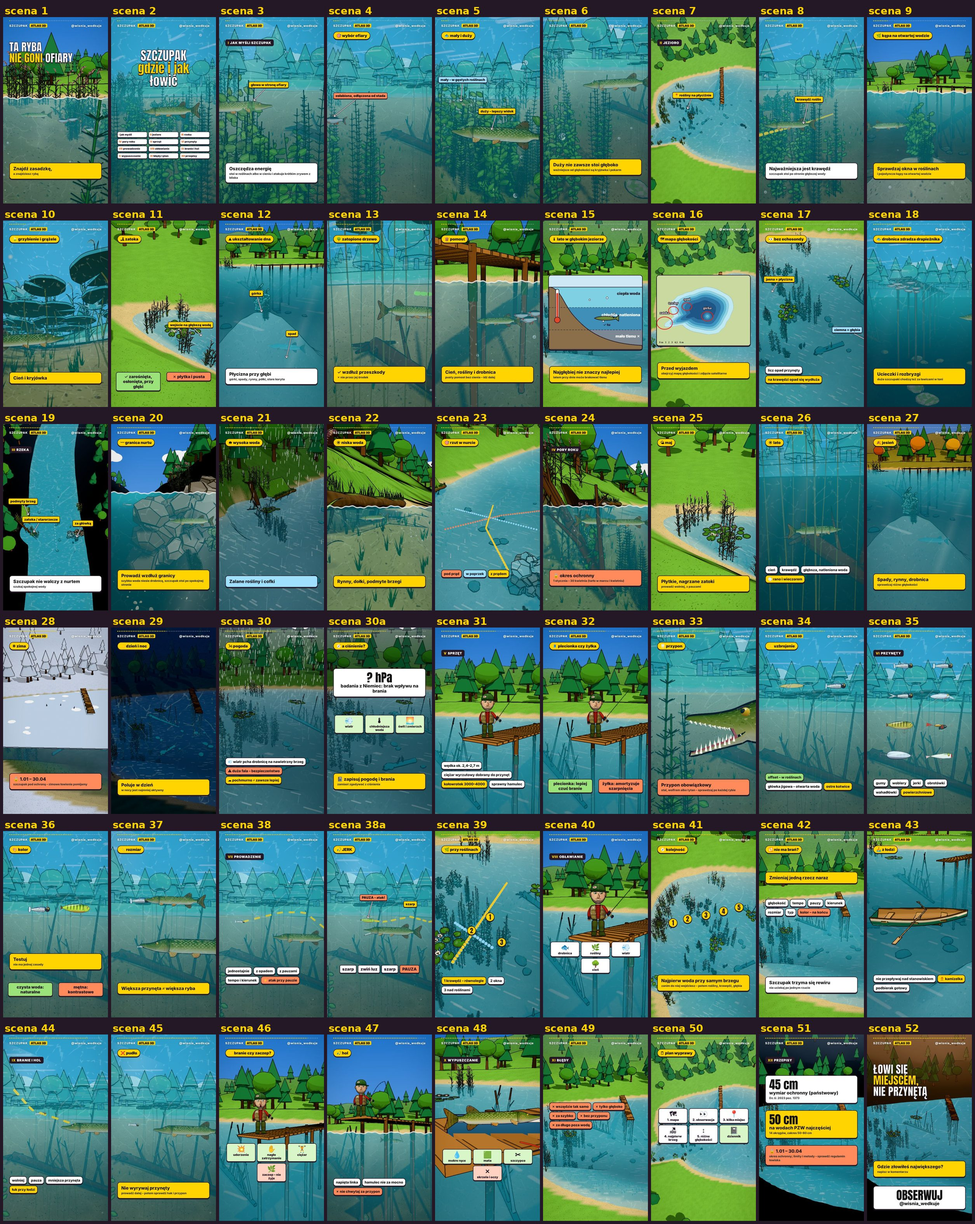
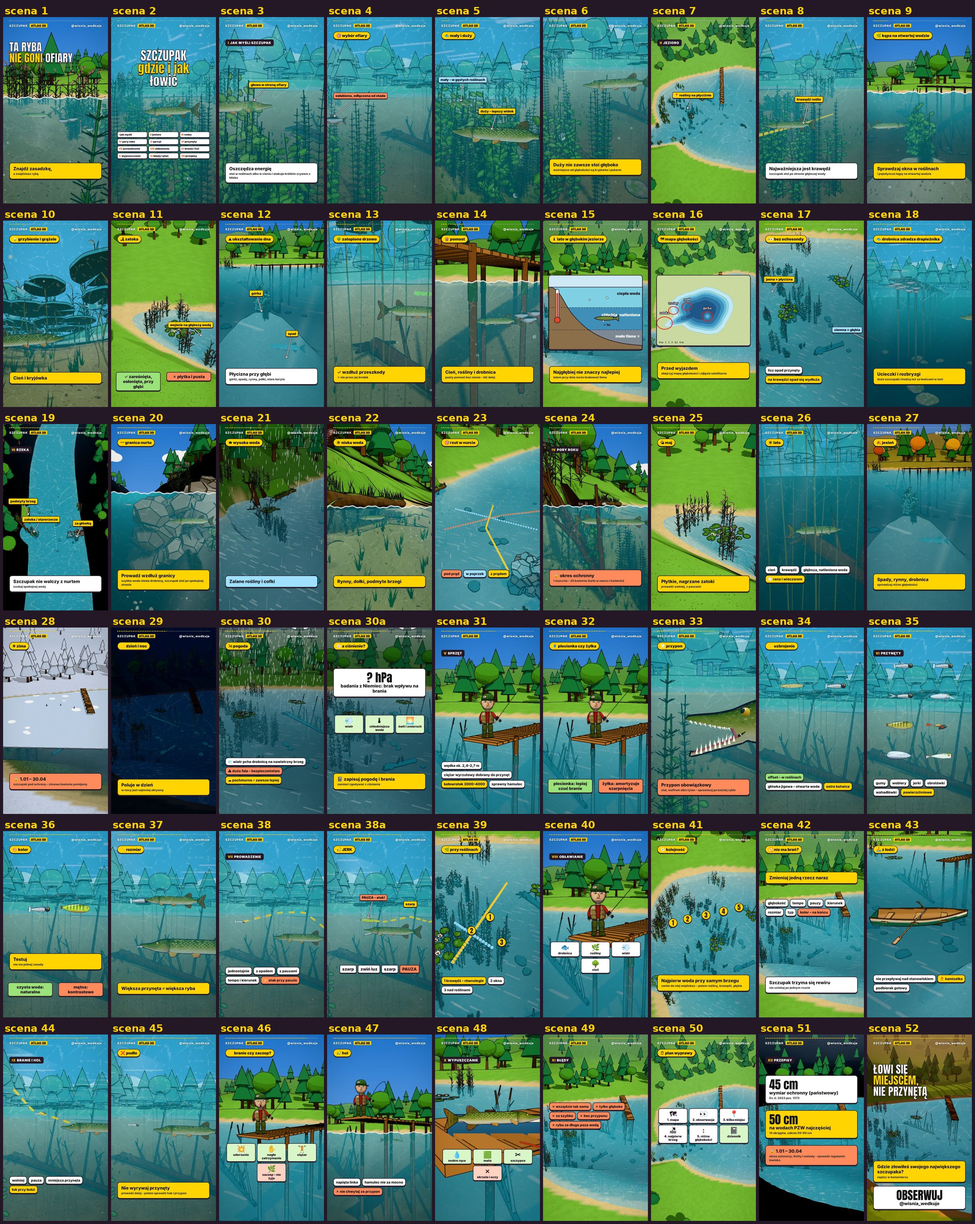
Szczupak: poprawki języka lektora, pełne pytanie na końcu; noc z całościowym przyciemnieniem kadru
Claude-Session: https://claude.ai/code/session_01YFDAx3363ZnHR5mXZwci3a

Changed region(s): [[0.8701, 0.8395, 1.0, 1.0], [0.0932, 0.5596, 0.2175, 0.684], [0.5904, 0.9016, 0.6215, 0.9327]]

diff --git a/atlas3d/silnik.js b/atlas3d/silnik.js
@@ -41,13 +41,13 @@ const normMat = new THREE.MeshNormalMaterial({ side: THREE.DoubleSide });   // o
 const fsCam = new THREE.OrthographicCamera(-1, 1, 1, -1, 0, 1);
 const kompozycja = new THREE.ShaderMaterial({
   uniforms: { tC: { value: rtC.texture }, tN: { value: rtN.texture }, tD: { value: rtN.depthTexture }, tM: { value: rtM.texture }, tMD: { value: rtM.depthTexture }, tB: { value: rtB.texture },
-    texel: { value: new THREE.Vector2(1 / RW, 1 / RH) }, sk: { value: SK }, cn: { value: .1 }, cf: { value: 600 }, ink: { value: C('#060506') }, fogC: { value: C('#fff') }, fogR: { value: new THREE.Vector2(60, 300) }, vig: { value: .2 },
+    przyc: { value: new THREE.Vector4(1, 1, 1, 1) }, texel: { value: new THREE.Vector2(1 / RW, 1 / RH) }, sk: { value: SK }, cn: { value: .1 }, cf: { value: 600 }, ink: { value: C('#060506') }, fogC: { value: C('#fff') }, fogR: { value: new THREE.Vector2(60, 300) }, vig: { value: .2 },
     invProj: { value: new THREE.Matrix4() }, camWorld: { value: new THREE.Matrix4() }, camPos: { value: new THREE.Vector3() },
     wodaC: { value: C('#3fa7b5') }, wodaG: { value: C('#0b3d5a') }, wodaK: { value: .085 }, czas: { value: 0 }, lod: { value: 0 } },
   vertexShader: 'varying vec2 vUv; void main(){ vUv=uv; gl_Position=vec4(position.xy,0.,1.); }',
   fragmentShader: `
     #include <packing>
-    uniform sampler2D tC, tN, tD, tM, tMD, tB; uniform vec2 texel; uniform float cn, cf, vig, wodaK, czas, lod, sk; uniform vec3 ink, fogC, camPos, wodaC, wodaG; uniform vec2 fogR;
+    uniform sampler2D tC, tN, tD, tM, tMD, tB; uniform vec2 texel; uniform float cn, cf, vig, wodaK, czas, lod, sk; uniform vec3 ink, fogC, camPos, wodaC, wodaG; uniform vec2 fogR; uniform vec4 przyc;
     uniform mat4 invProj, camWorld; varying vec2 vUv;
     float Zt(sampler2D d, vec2 uv){ return -perspectiveDepthToViewZ(texture2D(d, uv).x, cn, cf); }
     vec3 N(vec2 uv){ return texture2D(tN, uv).xyz * 2. - 1.; }
@@ -108,6 +108,7 @@ const kompozycja = new THREE.ShaderMaterial({
       float m = (1. - smoothstep(.0, .0045, abs(dy))) * bliskoTafli;
       col = mix(col, vec3(.95, 1., 1.), m * .9);
       vec2 p = vUv * 2. - 1.; col *= 1. - vig * smoothstep(.55, 1.45, length(p * vec2(1., .8)));
+      col = col * przyc.w * mix(vec3(1.), przyc.rgb, 1. - przyc.w);   // całościowe przyciemnienie (noc): wszystko ciemniej i chłodniej
       gl_FragColor = vec4(col, 1.);
       #include <tonemapping_fragment>
       #include <colorspace_fragment>
@@ -176,6 +177,7 @@ function nowaScena(p) {
   sun.castShadow = true; sun.shadow.mapSize.set(2048, 2048); Object.assign(sun.shadow.camera, { left: -45, right: 45, top: 45, bottom: -45, near: 1, far: 200 }); sun.shadow.bias = -0.0005; sun.shadow.normalBias = .04;
   scene.add(sun);
   kompozycja.uniforms.fogC.value = C(p.mgla); kompozycja.uniforms.fogR.value.set(p.mglaOd || 70, p.mglaDo || 320);
+  { const pc = p.przyciemnij; kompozycja.uniforms.przyc.value.set(...(pc ? [...C(pc.kolor).toArray(), pc.jasnosc] : [1, 1, 1, 1])); }
   kompozycja.uniforms.wodaC.value = C(p.wodaC || '#3fa7b5'); kompozycja.uniforms.wodaG.value = C(p.wodaG || '#0b3d5a');
   kompozycja.uniforms.wodaK.value = p.wodaK ?? .052; kompozycja.uniforms.lod.value = p.lod ? 1 : 0;
 }
@@ -358,7 +360,7 @@ const ZIMA = { niebo: ['#7d93ad', '#a9bacb', '#dfe7ee'], mgla: '#dfe7ee', hemiG:
 const JESIEN = { tafla: '#5aa6b4', trawa: '#93964e', wzg: '#7f7a40', niebo: ['#5d86c2', '#93b2d6', '#e3d6b8'], mgla: '#e0d2b4', hemiG: '#f3e2c4', hemiD: '#8a6a48', hemiI: 1.1, slonceI: 2.4, slonceK: '#ffd9a0', slonceP: [30, 30, 25], liscie: ['#d98a2b', '#c4572a', '#e3b23c'] },
   ZLOTA = { niebo: ['#6a4f8c', '#c4848e', '#f7ae78', '#ffd08a'], mgla: '#efb489', hemiG: '#d8b0b8', hemiD: '#6a5a78', hemiI: .9, slonceI: 3.4, slonceK: '#ffab5e', slonceP: [-30, 10, -60], mglaOd: 40, mglaDo: 260, wodaC: '#5a8f9a', wodaG: '#1a3550' };
 // noc: granatowe niebo, słaby chłodny „księżyc” zamiast słońca (księżyc rysuje ksiezyc())
-const NOC = { tafla: '#24466e', trawa: '#2f4a3a', wzg: '#223a30', niebo: ['#070b1e', '#16224a', '#2c3c6e'], mgla: '#1c2a52', mglaOd: 30, mglaDo: 200, hemiG: '#5a6ea8', hemiD: '#151a2e', hemiI: .55, slonceI: .55, slonceK: '#b9c8ff', slonceP: [-25, 40, -40], wodaC: '#1d3d5c', wodaG: '#0a1a2c' };
+const NOC = { przyciemnij: { jasnosc: .58, kolor: '#5f78c8' }, tafla: '#24466e', trawa: '#2f4a3a', wzg: '#223a30', niebo: ['#070b1e', '#16224a', '#2c3c6e'], mgla: '#1c2a52', mglaOd: 30, mglaDo: 200, hemiG: '#5a6ea8', hemiD: '#151a2e', hemiI: .55, slonceI: .55, slonceK: '#b9c8ff', slonceP: [-25, 40, -40], wodaC: '#1d3d5c', wodaG: '#0a1a2c' };
 // pochmurno i deszcz: szare niebo, rozproszone światło
 const DESZCZ = { tafla: '#6f9aa6', trawa: '#5f8a48', niebo: ['#5d6875', '#7f8a96', '#a7b0b9'], mgla: '#9aa4ae', mglaOd: 35, mglaDo: 220, hemiG: '#c9d2dc', hemiD: '#6f6a60', hemiI: 1.25, slonceI: .7, slonceK: '#e4e9f0', wodaC: '#4f8595', wodaG: '#1f4152' };
 function ksiezyc(x, y, z, r = 4) { const m = slonce(x, y, z, r, '#f3f0d8'), h = new THREE.Mesh(new THREE.CircleGeometry(r * 1.9, 40), new THREE.MeshBasicMaterial({ color: '#8ea0d8', transparent: true, opacity: .18, fog: false, depthWrite: false })); h.layers.set(NOINK); h.position.z = -.05; m.add(h);

diff --git a/atlas3d/szczupak_film.html b/atlas3d/szczupak_film.html
@@ -248,7 +248,7 @@ const SC = {
     return RZ('X', 'WYPUSZCZANIE') + IK([['💧', 'mokre ręce', 'v'], ['🟩', 'mata', 'v'], ['✂', 'szczypce', 'v'], ['✗', 'skrzela i oczy', 'x']], 1180, .4); },
   // ===== XI. BŁĘDY I PLAN =====
   51: () => { JEZIORO(); kam([-12, 18, 40], [-13, 0, 0], { fov: 50, najazd: [0, .02], orbita: 0 });
-    return RZ('XI', 'BŁĘDY') + LI([['✗ wszędzie tak samo', 'c'], ['✗ tylko głęboko', 'c'], ['✗ za szybko', 'c'], ['✗ bez przyponu', 'c'], ['✗ za długo poza wodą', 'c']], 700, .4); },
+    return RZ('XI', 'BŁĘDY') + LI([['✗ wszędzie tak samo', 'c'], ['✗ tylko głęboko', 'c'], ['✗ za szybko', 'c'], ['✗ bez przyponu', 'c'], ['✗ ryba za długo poza wodą', 'c']], 700, .4); },
   52: () => { JEZIORO(); kam([-12, 78, 46], [-13, 0, 0], { fov: 50, najazd: [0, .02], orbita: 0 });
     return CH('🗒 plan wyprawy') + IK([['🗺', '1. mapa'], ['👀', '2. obserwacja'], ['📍', '3. kilka miejsc'], ['🏖', '4. najpierw brzeg'], ['↕', '5. różne głębokości'], ['📓', 'dziennik', 'v']], 760, .4); },
   // ===== XII. PRZEPISY I KONIEC =====
@@ -257,7 +257,7 @@ const SC = {
       + `<div class="karta z" style="top:780px" data-od=".8"><span class="big">50 cm</span>na wodach PZW najczęściej<small>14 okręgów, zakres 50–60 cm</small></div>`
       + KR('🔒 1.01 – 30.04', 'okres ochronny; limity i metody – sprawdź regulamin łowiska', 1140, 'c', 1.3); },
   54: () => { JEZIORO(ZLOTA); kam([-12, 18, 40], [-13, 0, 0], { fov: 50, najazd: [0, .03], orbita: .03 });
-    return `<h1 data-od=".1" style="top:300px">Łowi się<br><span>miejscem,</span><br>nie przynętą</h1>` + KR('Gdzie złowiłeś największego?', 'napisz w komentarzu', 1300, 'z', .6) + `<div class="karta" style="top:1560px;text-align:center" data-od="1"><span class="big">OBSERWUJ</span>@wisnia_wedkuje</div>`; },
+    return `<h1 data-od=".1" style="top:300px">Łowi się<br><span>miejscem,</span><br>nie przynętą</h1>` + KR('Gdzie złowiłeś swojego największego szczupaka?', 'napisz w komentarzu', 1300, 'z', .6) + `<div class="karta" style="top:1560px;text-align:center" data-od="1"><span class="big">OBSERWUJ</span>@wisnia_wedkuje</div>`; },
 };
 window.NR = NR;
 uruchom({ sceny: SC, liczba: 54, tytul: 'SZCZUPAK <b>ATLAS 3D</b>', dlugosc: () => 6 });

diff --git a/atlas3d/scenariusze/szczupak_gdzie.md b/atlas3d/scenariusze/szczupak_gdzie.md
@@ -62,7 +62,7 @@ Czasy rozdziałów są orientacyjne. W kolumnie „Obraz” podane są napisy i 
 | 3 | Szczupak nieruchomo w cieniu rośliny, głową w stronę ławicy. Strzałka „głowa w stronę ofiary”, krótki zryw | Szczupak oszczędza energię. Stoi głową w stronę ofiary, w roślinach albo w cieniu, i atakuje krótkim zrywem z bliska. | wiki_en (bursts of energy instead of actively chasing; ambush) |
 | 4 | Z ławicy odłącza się jedna płotka, osłabiona, płynie zygzakiem. Szczupak wybiera właśnie ją | Często wybiera rybę osłabioną albo odłączoną od stada. | por. |
 | 5 | Mały szczupak głęboko w gęstwinie, duży przechodzi obok. Etykiety „mały – w gęstych roślinach”, „duży – lepszy widok” | Małe szczupaki chowają się w gęstych roślinach, bo duże potrafią je zjeść. Duże stoją tam, skąd mają lepszy widok. | wiki_en (smaller pike need more vegetation to avoid being eaten; large line of sight), fishbase (cannibalism is common) |
-| 6 | Duży szczupak raz na płyciźnie w roślinach, raz na spadzie. Karta „Duży nie zawsze stoi głęboko” | I pamiętaj: duży szczupak nie zawsze stoi głęboko. Ważniejsza od głębokości jest kryjówka i pokarm. | por.; fishbase (zwykle 1–5 m głębokości) |
+| 6 | Duży szczupak raz na płyciźnie w roślinach, raz na spadzie. Karta „Duży nie zawsze stoi głęboko” | I pamiętaj: duży szczupak nie zawsze stoi głęboko. Ważniejsze od głębokości są kryjówka i pokarm. | por.; fishbase (zwykle 1–5 m głębokości) |
 
 ### II. Jezioro (0:44–1:58) – jedno ciągłe ujęcie w świecie jeziora
 | # | Obraz | Lektor | Źródło |
@@ -73,9 +73,9 @@ Czasy rozdziałów są orientacyjne. W kolumnie „Obraz” podane są napisy i 
 | 10 | Grzybienie i grążele, szczupak w cieniu liści | Pola grzybieni i grążeli dają cień i kryjówkę. | por. |
 | 11 | Zatoka: zarośnięta, osłonięta od wiatru, z wejściem na głębszą wodę. Obok pusta, płytka zatoka bez roślin ✗ | Dobra zatoka jest zarośnięta, osłonięta od wiatru i ma wejście na głębszą wodę. Pusta, płytka zatoka szczupaków nie trzyma. | por. |
 | 12 | Pod wodą: górka, spad, rynna, półka, stare koryto. Etykiety kolejno, szczupak patroluje krawędź | Szukaj też górek, spadów, rynien, półek i starych koryt, najlepiej tam, gdzie płycizna sąsiaduje z głębią. | por. |
-| 13 | Zatopione drzewo, konary, kamienie. Żółty tor przynęty **wzdłuż** przeszkody, nie przez środek | Wykorzystuje zatopione drzewa, konary i kamienie. Prowadź przynętę wzdłuż przeszkody, a nie przez jej środek. | wiki_en (tree structure habitat), por. |
+| 13 | Zatopione drzewo, konary, kamienie. Żółty tor przynęty **wzdłuż** przeszkody, nie przez środek | Szczupak chętnie stoi przy zatopionych drzewach, konarach i kamieniach. Prowadź przynętę wzdłuż przeszkody, a nie przez jej środek. | wiki_en (tree structure habitat), por. |
 | 14 | Pomost z cieniem i roślinami pod spodem. Obok pusty pomost bez ryb | Pomosty sprawdzaj, gdy dają cień albo są przy nich rośliny i drobnica. | por. |
-| 15 | Przekrój jeziora latem: ciepła warstwa u góry, chłodna pod nią, przy dnie warstwa bez tlenu (szara). Szczupak w chłodnej, natlenionej warstwie | W płytkim jeziorze szczupak poluje płytko. W głębokim latem przy dnie może brakować tlenu, więc najgłębsze miejsce nie musi być najlepsze. | por. (termoklina i deficyt tlenu w hipolimnionie: zjawisko limnologiczne, wiki_pl „Termoklina”) |
+| 15 | Przekrój jeziora latem: ciepła warstwa u góry, chłodna pod nią, przy dnie warstwa bez tlenu (szara). Szczupak w chłodnej, natlenionej warstwie | W płytkim jeziorze szczupak poluje na płytkiej wodzie. W głębokim jeziorze latem przy dnie może brakować tlenu, więc najgłębsze miejsce nie musi być najlepsze. | por. (termoklina i deficyt tlenu w hipolimnionie: zjawisko limnologiczne, wiki_pl „Termoklina”) |
 | 16 | Mapa batymetryczna i zdjęcie satelitarne jeziora, zakreślone: górka, rynna, zatoka, trzcinowisko, dopływ | Przed wyjazdem obejrzyj mapę głębokości i zdjęcie satelitarne: znajdziesz górki, rynny, zatoki i trzcinowiska. | por. |
 | 17 | Bez echosondy: woda z góry, jasna płycizna i ciemna głębia, licznik opadu przy krawędzi | Bez echosondy: jaśniejsza woda to płycizna, ciemniejsza to głębia, a na krawędzi opad przynęty nagle się wydłuża. | por. (jak w okoniu) |
 | 18 | Drobnica ucieka, rozbryzgi, kręgi. Duży szczupak za ławicą w toni | Obserwuj drobnicę. Ucieczki i rozbryzgi zdradzają drapieżnika, a duże szczupaki chodzą też za ławicami w otwartej wodzie. | fishbase (żywi się głównie rybami), wiki_pl (większe osobniki gonią ławice w strefie pelagicznej dużych jezior) |
@@ -95,11 +95,11 @@ Czasy rozdziałów są orientacyjne. W kolumnie „Obraz” podane są napisy i 
 | 24 | Wiosna: zalana łąka i płycizna, tarło. Karta z kłódką „okres ochronny 1.01–30.04” | Szczupak trze się w marcu i kwietniu na zarośniętych płyciznach, w starorzeczach i na zalanych łąkach, dlatego od pierwszego stycznia do trzydziestego kwietnia jest pod ochroną. | wiki_pl (tarło III–IV, płycizny, starorzecza, zalane łąki), rozp2023 |
 | 25 | Maj: płytka zatoka nagrzewa się (ciepłe kolory), drobnica wchodzi, za nią szczupak | Po otwarciu sezonu zacznij od płytkich, nagrzanych zatok i prowadź wolniej, z pauzami. | por. |
 | 26 | Lato: upał, słońce, szczupak w cieniu przy krawędzi roślin i głębiej. Zegar: poranek i wieczór | Latem liczy się temperatura i tlen: szukaj cienia, krawędzi i głębszej, natlenionej wody, a w upał łów rano i wieczorem. | por. |
-| 27 | Jesień: złote liście, rośliny obumierają, drobnica zmienia miejsce, szczupak na spadzie i w rynnie | Jesienią rośliny obumierają. Szukaj na spadach, rynnach i przy drobnicy, różnymi głębokościami. | por. |
+| 27 | Jesień: złote liście, rośliny obumierają, drobnica zmienia miejsce, szczupak na spadzie i w rynnie | Jesienią rośliny obumierają. Szukaj go na spadach, w rynnach i przy drobnicy, i sprawdzaj różne głębokości. | por. |
 | 28 | Zima: lód i karta z kłódką „1.01–30.04 – okres ochronny”, przekreślona przerębel, kalendarz przeskakuje na maj | A zima? Od pierwszego stycznia szczupak jest pod ochroną, więc zimowe łowienie pomijamy. | rozp2023 |
 | 29 | Dzień i noc (słońce przesuwa się, potem księżyc, szczupak nieruchomy) | Poluje w dzień, w nocy jest najmniej aktywny. | wiki_en (least active during the night) |
 | 30 | Pogoda, kolejno: wiatr pcha drobnicę na nawietrzny brzeg; ostrzeżenie „fala – bezpieczeństwo”; słońce i cień; deszcz mąci rzekę i podnosi wodę | Wiatr spycha drobnicę na nawietrzny brzeg, ale przy dużej fali uważaj. Pochmurny dzień nie zawsze jest lepszy. | por. |
-| 30a | Barometr z „? hPa”, potem ikony ✓: wiatr, chłodniejsza woda, świt i zmierzch. Karta „zapisuj pogodę i brania” | A ciśnienie? Wędkarze się kłócą, a badania z Niemiec nie wykazały jego wpływu na brania szczupaka. Więcej dały wiatr, chłodniejsza woda oraz świt i zmierzch. Dlatego zapisuj w dzienniku pogodę i swoje brania. | Kuparinen i in. 2010, Arlinghaus i in. 2017 (`szczupak_pogoda_research.md`) |
+| 30a | Barometr z „? hPa”, potem ikony ✓: wiatr, chłodniejsza woda, świt i zmierzch. Karta „zapisuj pogodę i brania” | A ciśnienie? Wędkarze się kłócą, a badania z Niemiec nie wykazały jego wpływu na brania szczupaka. Większe znaczenie miały wiatr, chłodniejsza woda oraz świt i zmierzch. Dlatego zapisuj w dzienniku pogodę i swoje brania. | Kuparinen i in. 2010, Arlinghaus i in. 2017 (`szczupak_pogoda_research.md`) |
 
 ### V. Sprzęt (3:18–3:46)
 | # | Obraz | Lektor | Źródło |
@@ -112,7 +112,7 @@ Czasy rozdziałów są orientacyjne. W kolumnie „Obraz” podane są napisy i 
 ### VI. Przynęty i dobór (3:46–4:08)
 | # | Obraz | Lektor | Źródło |
 |---|---|---|---|
-| 35 | Przynęty pływają po kolei: kopyto, ripper, jaskółka; wobler pływający, tonący i głęboko schodzący; **jerk** (bez steru, płaski); obrotówka; wahadłówka; popper i żaba na powierzchni | Przynęty: gumy, czyli kopyta, rippery i jaskółki, woblery dobrane do głębokości, jerki, obrotówki płytko i w mętnej wodzie, wahadłówki przy krawędziach, a nad roślinami popper albo żaba. | por. |
+| 35 | Przynęty pływają po kolei: kopyto, ripper, jaskółka; wobler pływający, tonący i głęboko schodzący; **jerk** (bez steru, płaski); obrotówka; wahadłówka; popper i żaba na powierzchni | Przynęty: gumy, czyli kopyta, rippery i jaskółki, woblery dobrane do głębokości, jerki, obrotówki na płytkiej i mętnej wodzie, wahadłówki przy krawędziach, a nad roślinami popper albo żaba. | por. |
 | 36 | Dwa panele: czysta woda z naturalnymi kolorami, mętna z kontrastowymi i wyraźną pracą. Karta „Testuj – nie ma jednej zasady” | W czystej wodzie zacznij od naturalnych kolorów, w mętnej od kontrastowych, ale testuj, bo nie ma jednej zasady. | por. |
 | 37 | Mały szczupak atakuje dużą gumę, duży bierze małą | I pamiętaj: większa przynęta nie oznacza większej ryby. | por. |
 
@@ -142,19 +142,19 @@ Czasy rozdziałów są orientacyjne. W kolumnie „Obraz” podane są napisy i 
 ### X. Wypuszczanie (5:18–5:29)
 | # | Obraz | Lektor | Źródło |
 |---|---|---|---|
-| 48 | Mata, mokre dłonie, szczypce, obcinaczki. Ikony ✗ skrzela, ✗ oczy, ✗ brzuch. Duży szczupak podparty poziomo. Osłabiony w wodzie głową pod prąd, odpływa | Wypuszczając: mokre ręce, mata, szczypce. Nie dotykaj skrzeli ani oczu, dużą rybę podtrzymuj poziomo, a osłabioną przytrzymaj w wodzie, aż sama odpłynie. | por. |
+| 48 | Mata, mokre dłonie, szczypce, obcinaczki. Ikony ✗ skrzela, ✗ oczy, ✗ brzuch. Duży szczupak podparty poziomo. Osłabiony w wodzie głową pod prąd, odpływa | Przy wypuszczaniu zmocz ręce, przygotuj matę i szczypce. Nie dotykaj skrzeli ani oczu, dużą rybę podtrzymuj poziomo, a osłabioną przytrzymaj w wodzie, aż sama odpłynie. | por. |
 
 ### XI. Najczęstsze błędy i plan wyprawy (5:29–5:42)
 | # | Obraz | Lektor | Źródło |
 |---|---|---|---|
-| 49 | Szybka lista z ✗: wszędzie tak samo, tylko głęboko, za szybko, jedna głębokość, wszystko zmieniane naraz, brak przyponu, tępe kotwice, długo poza wodą | Najczęstsze błędy: wszędzie tak samo, tylko głęboko, za szybko, bez przyponu i za długo poza wodą. | por. |
-| 50 | Plan wyprawy w 5 krokach (ikony) + dziennik z wpisem | Na nowej wodzie: mapa, obserwacja, kilka miejsc, najpierw brzeg, różne głębokości i dziennik. | por. |
+| 49 | Szybka lista z ✗: wszędzie tak samo, tylko głęboko, za szybko, jedna głębokość, wszystko zmieniane naraz, brak przyponu, tępe kotwice, długo poza wodą | Najczęstsze błędy to łowienie wszędzie tak samo, tylko głęboko i za szybko, bez przyponu i trzymanie ryby za długo poza wodą. | por. |
+| 50 | Plan wyprawy w 5 krokach (ikony) + dziennik z wpisem | Na nowej wodzie zacznij od mapy i obserwacji, sprawdź kilka miejsc, najpierw przy brzegu, na różnych głębokościach, i zapisuj wszystko w dzienniku. | por. |
 
 ### XII. Przepisy i koniec (5:42–6:00)
 | # | Obraz | Lektor | Źródło |
 |---|---|---|---|
-| 51 | Karta przepisów: ochrona 1.01–30.04, wymiar 45 cm (państwowy), na wodach PZW najczęściej 50 cm, limity, dozwolone metody, żywiec tylko tam, gdzie regulamin pozwala | Sprawdź regulamin łowiska: wymiar ochronny to państwowo czterdzieści pięć centymetrów, na wodach PZW najczęściej pięćdziesiąt, do tego limity i dozwolone metody, w tym żywiec. | rozp2023, pzw |
-| 52 | Wniosek i CTA, karta Atlasu, OBSERWUJ | Szczupaka łowi się miejscem, nie przynętą. Gdzie złowiłeś swojego największego? Napisz w komentarzu i obserwuj Wiśnia Wędkuje! | — |
+| 51 | Karta przepisów: ochrona 1.01–30.04, wymiar 45 cm (państwowy), na wodach PZW najczęściej 50 cm, limity, dozwolone metody, żywiec tylko tam, gdzie regulamin pozwala | Sprawdź regulamin łowiska. Według przepisów państwowych wymiar ochronny to czterdzieści pięć centymetrów, a na wodach PZW najczęściej pięćdziesiąt. Do tego dochodzą limity i dozwolone metody, w tym żywiec. | rozp2023, pzw |
+| 52 | Wniosek i CTA, karta Atlasu, OBSERWUJ | Szczupaka łowi się miejscem, nie przynętą. Gdzie złowiłeś swojego największego szczupaka? Napisz w komentarzu i obserwuj Wiśnia Wędkuje! | — |
 
 > Czasy rozdziałów wyżej są orientacyjne. Sam lektor to ok. 880 słów, czyli ok. **5:30** po ×1,1. Z przelotami i akcjami cały film ma ok. **6 min**.
 

diff --git a/atlas3d/scenariusze/szczupak_lektor.md b/atlas3d/scenariusze/szczupak_lektor.md
@@ -10,7 +10,7 @@
 
 **5.** Małe szczupaki chowają się w gęstych roślinach, bo duże potrafią je zjeść. Duże stoją tam, skąd mają lepszy widok.
 
-**6.** I pamiętaj: duży szczupak nie zawsze stoi głęboko. Ważniejsza od głębokości jest kryjówka i pokarm.
+**6.** I pamiętaj: duży szczupak nie zawsze stoi głęboko. Ważniejsze od głębokości są kryjówka i pokarm.
 
 **7.** Na jeziorze zacznij od roślin. Szczupak lubi płytkie, zarośnięte miejsca.
 
@@ -24,11 +24,11 @@
 
 **12.** Szukaj też górek, spadów, rynien, półek i starych koryt, najlepiej tam, gdzie płycizna sąsiaduje z głębią.
 
-**13.** Wykorzystuje zatopione drzewa, konary i kamienie. Prowadź przynętę wzdłuż przeszkody, a nie przez jej środek.
+**13.** Szczupak chętnie stoi przy zatopionych drzewach, konarach i kamieniach. Prowadź przynętę wzdłuż przeszkody, a nie przez jej środek.
 
 **14.** Pomosty sprawdzaj, gdy dają cień albo są przy nich rośliny i drobnica.
 
-**15.** W płytkim jeziorze szczupak poluje płytko. W głębokim latem przy dnie może brakować tlenu, więc najgłębsze miejsce nie musi być najlepsze.
+**15.** W płytkim jeziorze szczupak poluje na płytkiej wodzie. W głębokim jeziorze latem przy dnie może brakować tlenu, więc najgłębsze miejsce nie musi być najlepsze.
 
 **16.** Przed wyjazdem obejrzyj mapę głębokości i zdjęcie satelitarne: znajdziesz górki, rynny, zatoki i trzcinowiska.
 
@@ -52,7 +52,7 @@
 
 **26.** Latem liczy się temperatura i tlen: szukaj cienia, krawędzi i głębszej, natlenionej wody, a w upał łów rano i wieczorem.
 
-**27.** Jesienią rośliny obumierają. Szukaj na spadach, rynnach i przy drobnicy, różnymi głębokościami.
+**27.** Jesienią rośliny obumierają. Szukaj go na spadach, w rynnach i przy drobnicy, i sprawdzaj różne głębokości.
 
 **28.** A zima? Od pierwszego stycznia szczupak jest pod ochroną, więc zimowe łowienie pomijamy.
 
@@ -60,7 +60,7 @@
 
 **30.** Wiatr spycha drobnicę na nawietrzny brzeg, ale przy dużej fali uważaj. Pochmurny dzień nie zawsze jest lepszy.
 
-**30a.** A ciśnienie? Wędkarze się kłócą, a badania z Niemiec nie wykazały jego wpływu na brania szczupaka. Więcej dały wiatr, chłodniejsza woda oraz świt i zmierzch. Dlatego zapisuj w dzienniku pogodę i swoje brania.
+**30a.** A ciśnienie? Wędkarze się kłócą, a badania z Niemiec nie wykazały jego wpływu na brania szczupaka. Większe znaczenie miały wiatr, chłodniejsza woda oraz świt i zmierzch. Dlatego zapisuj w dzienniku pogodę i swoje brania.
 
 **31.** Sprzęt: wędka około dwóch i pół metra, z ciężarem wyrzutowym dobranym do przynęt, i kołowrotek w rozmiarze od trzech do czterech tysięcy ze sprawnym hamulcem.
 
@@ -70,7 +70,7 @@
 
 **34.** W roślinach używaj haka offsetowego, na otwartej wodzie główki jigowej, i pilnuj ostrych kotwic.
 
-**35.** Przynęty: gumy, czyli kopyta, rippery i jaskółki, woblery dobrane do głębokości, jerki, obrotówki płytko i w mętnej wodzie, wahadłówki przy krawędziach, a nad roślinami popper albo żaba.
+**35.** Przynęty: gumy, czyli kopyta, rippery i jaskółki, woblery dobrane do głębokości, jerki, obrotówki na płytkiej i mętnej wodzie, wahadłówki przy krawędziach, a nad roślinami popper albo żaba.
 
 **36.** W czystej wodzie zacznij od naturalnych kolorów, w mętnej od kontrastowych, ale testuj, bo nie ma jednej zasady.
 
@@ -98,15 +98,15 @@
 
 **47.** W holu trzymaj napiętą linkę, nie dokręcaj za mocno hamulca i nie chwytaj ryby za przypon.
 
-**48.** Wypuszczając: mokre ręce, mata, szczypce. Nie dotykaj skrzeli ani oczu, dużą rybę podtrzymuj poziomo, a osłabioną przytrzymaj w wodzie, aż sama odpłynie.
+**48.** Przy wypuszczaniu zmocz ręce, przygotuj matę i szczypce. Nie dotykaj skrzeli ani oczu, dużą rybę podtrzymuj poziomo, a osłabioną przytrzymaj w wodzie, aż sama odpłynie.
 
-**49.** Najczęstsze błędy: wszędzie tak samo, tylko głęboko, za szybko, bez przyponu i za długo poza wodą.
+**49.** Najczęstsze błędy to łowienie wszędzie tak samo, tylko głęboko i za szybko, bez przyponu i trzymanie ryby za długo poza wodą.
 
-**50.** Na nowej wodzie: mapa, obserwacja, kilka miejsc, najpierw brzeg, różne głębokości i dziennik.
+**50.** Na nowej wodzie zacznij od mapy i obserwacji, sprawdź kilka miejsc, najpierw przy brzegu, na różnych głębokościach, i zapisuj wszystko w dzienniku.
 
-**51.** Sprawdź regulamin łowiska: wymiar ochronny to państwowo czterdzieści pięć centymetrów, na wodach PZW najczęściej pięćdziesiąt, do tego limity i dozwolone metody, w tym żywiec.
+**51.** Sprawdź regulamin łowiska. Według przepisów państwowych wymiar ochronny to czterdzieści pięć centymetrów, a na wodach PZW najczęściej pięćdziesiąt. Do tego dochodzą limity i dozwolone metody, w tym żywiec.
 
-**52.** Szczupaka łowi się miejscem, nie przynętą. Gdzie złowiłeś swojego największego? Napisz w komentarzu i obserwuj Wiśnia Wędkuje!
+**52.** Szczupaka łowi się miejscem, nie przynętą. Gdzie złowiłeś swojego największego szczupaka? Napisz w komentarzu i obserwuj Wiśnia Wędkuje!
 
 
-Razem ok. 906 słów.
+Razem ok. 939 słów.
